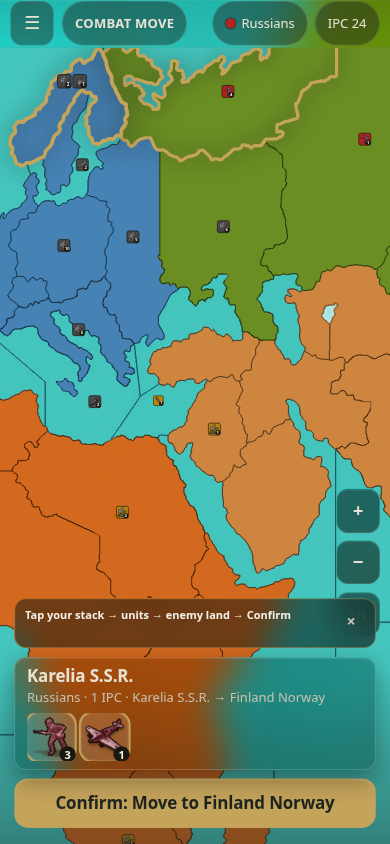
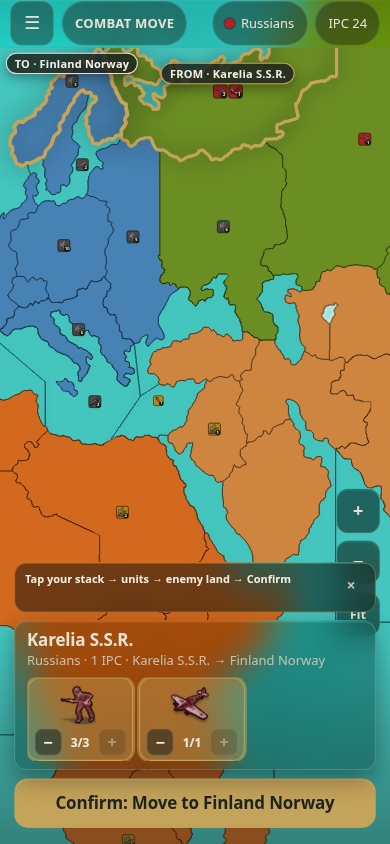
V2.81.53-ux-preview.5: live Vercel URL + 390 stills
Idle no-Try, manual Confirm gold, casualty choice, Germans Attack.

diff --git a/briefs/2026-09-19-main-art-three-ux/SCORE.md b/briefs/2026-09-19-main-art-three-ux/SCORE.md
@@ -43,5 +43,7 @@ germans=?three=1&germans=1
 - `casualty-select-390.png` — choice exists, Confirm after pick
 - `germans-ukraine-karelia-390.png` — previously stuck, now solvable
 
-**Vercel:** (pending this deploy)
+**Vercel:** https://tactical-risk20-7sj92pce2-james-projects-20d8de40.vercel.app/?three=1
+**Germans:** https://tactical-risk20-7sj92pce2-james-projects-20d8de40.vercel.app/?three=1&germans=1
+**Git alias:** https://tactical-risk20-git-cursor-mobil-9c9397-james-projects-20d8de40.vercel.app/?three=1
 **PR:** https://github.com/04jhbickford/Tactical-Risk/pull/73 (draft · do not merge)

diff --git a/briefs/2026-09-19-main-art-three-ux/SCORE-preview5.md b/briefs/2026-09-19-main-art-three-ux/SCORE-preview5.md
@@ -29,3 +29,7 @@ manualOnly=true
 2. Tap INF (and FTR if you want) — chips gold, steppers.
 3. Tap enemy dest. Gold **Confirm: Move to …** / **Attack …**.
 4. Battle: if you have a choice, tap the unit that takes the hit, then Confirm.
+
+**Vercel:** https://tactical-risk20-7sj92pce2-james-projects-20d8de40.vercel.app/?three=1
+**Germans:** https://tactical-risk20-7sj92pce2-james-projects-20d8de40.vercel.app/?three=1&germans=1
+**PR:** https://github.com/04jhbickford/Tactical-Risk/pull/73 (draft · hold merge)
